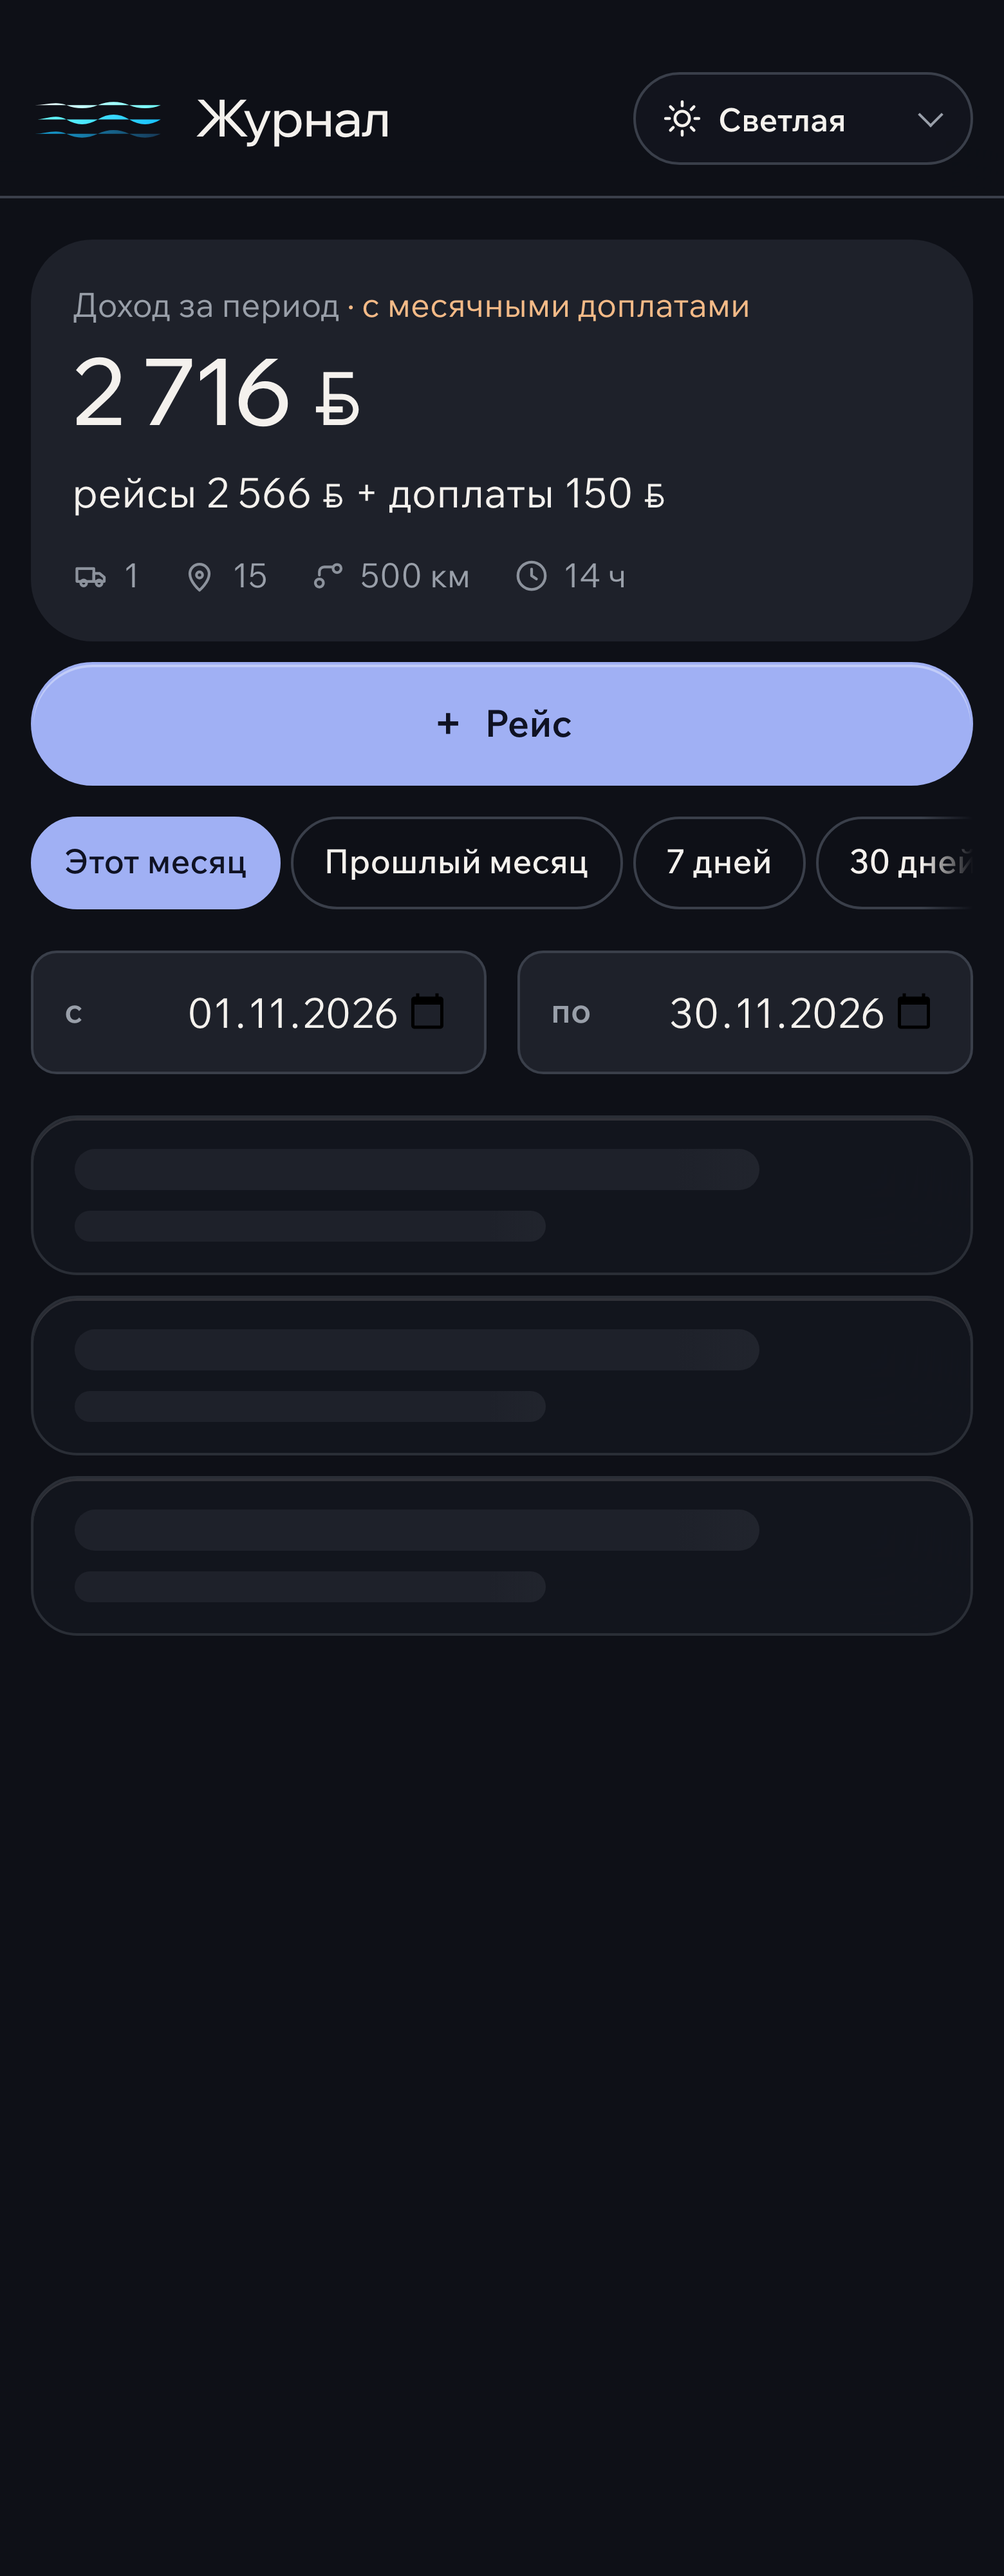
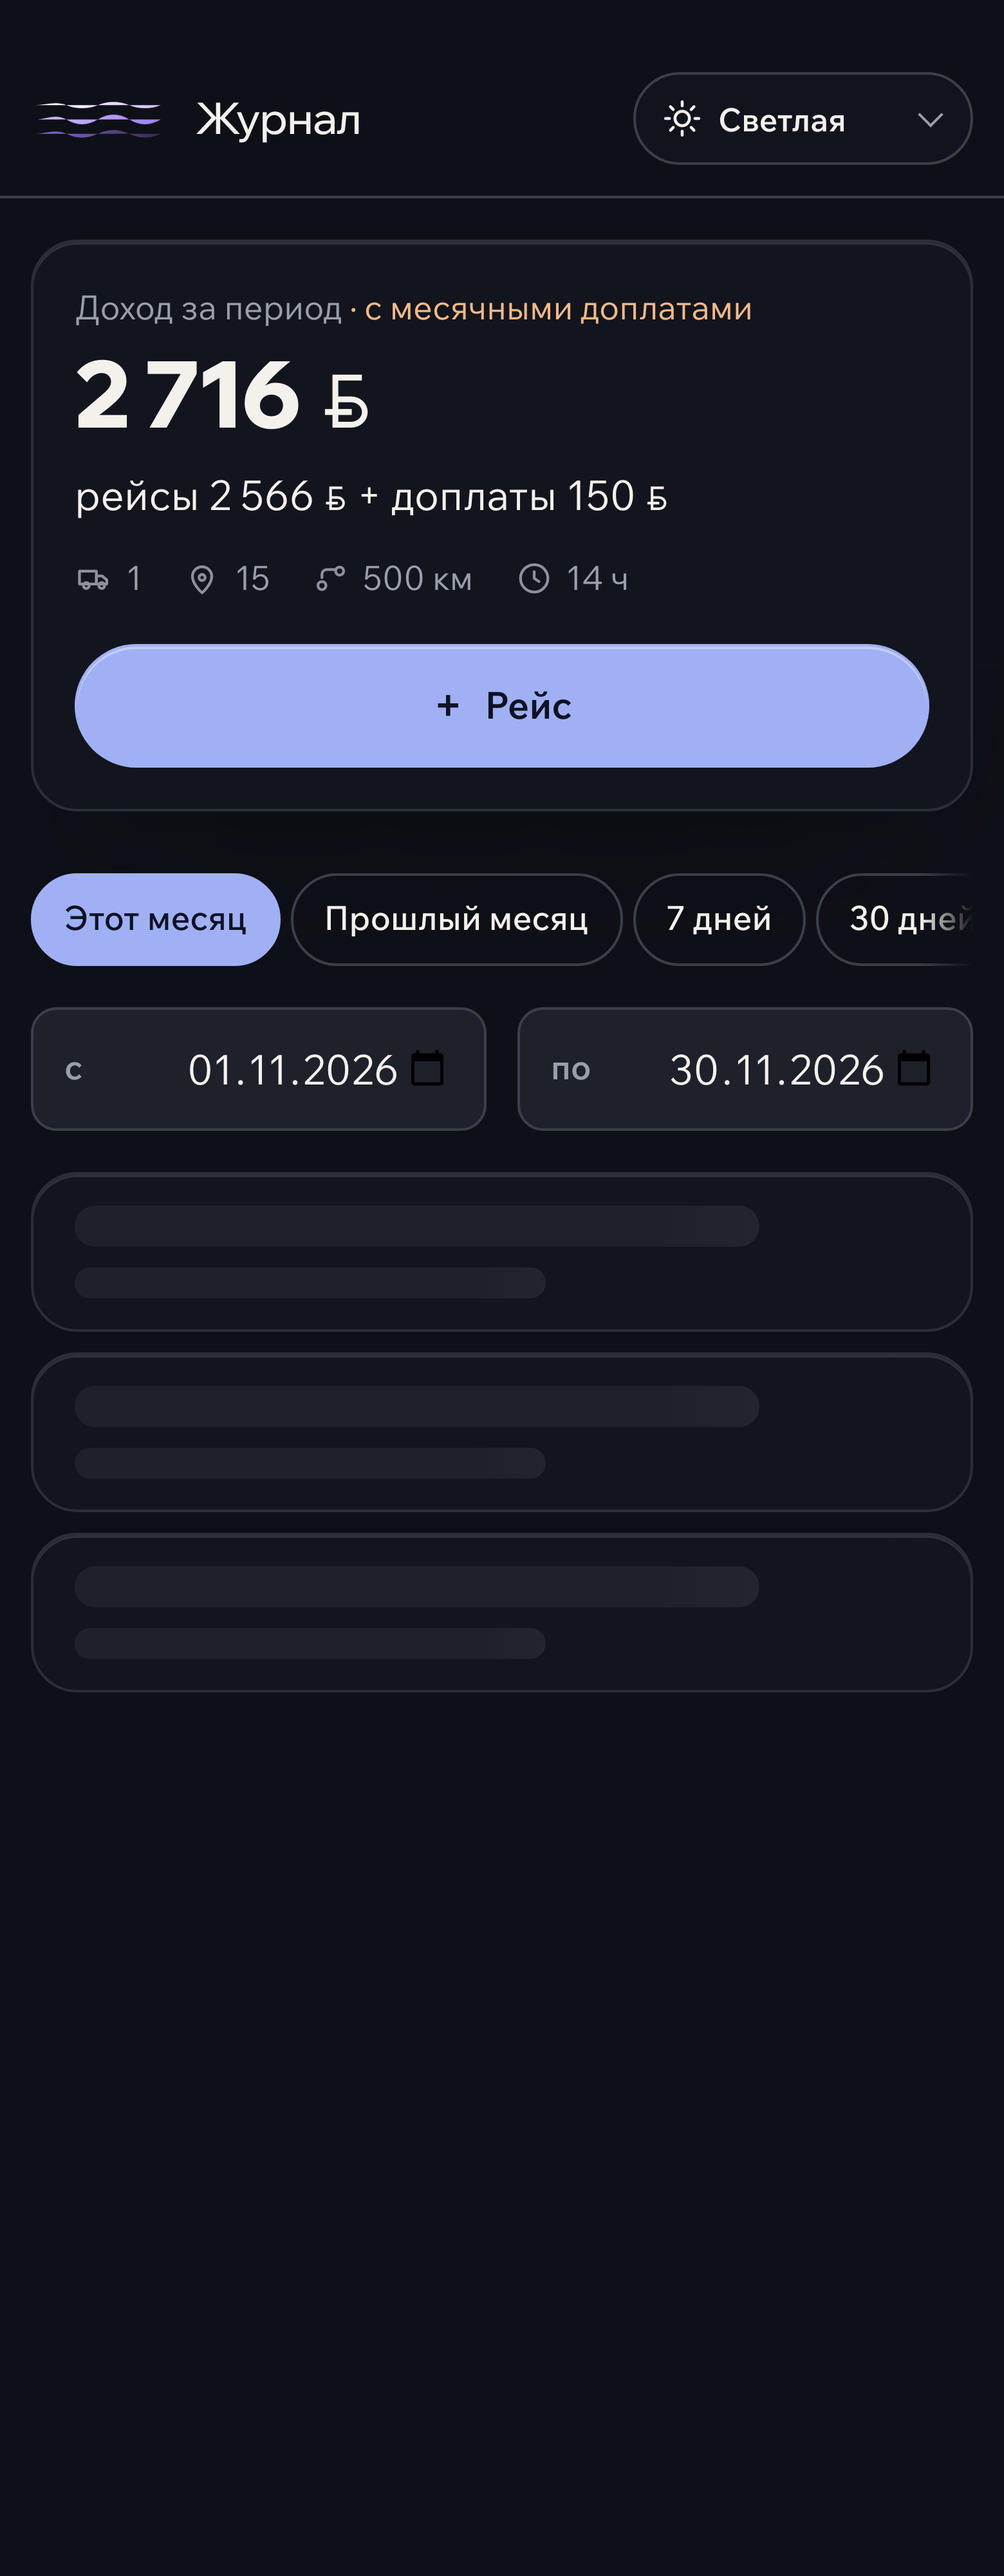
Dusk: белый фон, заголовки меньше, статистика журнала как баланс
- Светлая тема: белый фон вместо бежевого, холодные серые колодцы
- Нижняя навигация: убран маркер у активного пункта, только цвет
- Заголовки страниц в шапке уменьшены на 15% (20 → 17 px)
- Блок статистики журнала с кнопкой «Рейс» — карточка с контуром, как
  баланс за период в истории; внутренняя подложка убрана, чтобы не было
  карточки в карточке
- Главные суммы в блоке журнала и балансе — Display 800 (black)
- DESIGN.md обновлён, скриншоты журнала в обеих темах

diff --git a/src/styles.css b/src/styles.css
@@ -82,15 +82,15 @@
 :root {
   color-scheme: light;
 
-  /* поверхности: костяные колодцы на тумане */
-  --bg: #f1eae3;
-  --surface: #fffdfb;
-  --surface-sunken: #f3efea;
-  --surface-deep: #e9e4dd;
+  /* поверхности: белая бумага, холодные серые колодцы */
+  --bg: #ffffff;
+  --surface: #ffffff;
+  --surface-sunken: #f4f5f7;
+  --surface-deep: #ebedf1;
   --text: #151820;
-  --hint: #565b64;
-  --divider: #e4dfd8;
-  --divider-strong: #d9d5cf;
+  --hint: #5a5f6b;
+  --divider: #e3e5ec;
+  --divider-strong: #d2d5e0;
 
   /* сигналы */
   --accent: #3e4999;
@@ -109,12 +109,12 @@
   --positive: #2f7a5c;
   --danger: #b4523f;
   --focus: rgba(62, 73, 153, 0.35);
-  --header: rgba(241, 234, 227, 0.86);
+  --header: rgba(255, 255, 255, 0.88);
 
   /* стекло: дымчатая поверхность со светлой кромкой */
-  --glass: rgba(255, 253, 251, 0.7);
+  --glass: rgba(255, 255, 255, 0.82);
   --glass-edge: inset 0 1px 0 rgba(255, 255, 255, 0.6);
-  --shadow-card: 0 1px 0 rgba(255, 255, 255, 0.7) inset, 0 24px 48px -32px rgba(21, 24, 32, 0.35);
+  --shadow-card: 0 1px 0 rgba(255, 255, 255, 0.7) inset, 0 1px 2px rgba(21, 24, 32, 0.04), 0 18px 40px -32px rgba(21, 24, 32, 0.3);
 
   --font-display: 'Wix Madefor Display', ui-sans-serif, system-ui, sans-serif;
   --font-body: 'Wix Madefor Text', ui-sans-serif, system-ui, sans-serif;
@@ -561,18 +561,6 @@ html[data-theme='dark'] .brand-mark {
 
 .nav-item.active {
   color: var(--accent-strong);
-}
-
-.nav-item.active::before {
-  content: '';
-  position: absolute;
-  top: -1px;
-  left: 50%;
-  width: 22px;
-  height: 2px;
-  margin-left: -11px;
-  border-radius: 2px;
-  background: var(--accent);
 }
 
 .nav-icon {
@@ -2076,7 +2064,7 @@ h3,
 
 .topbar h1,
 .title-stack h1 {
-  font-size: 20px;
+  font-size: 17px;
   font-weight: 500;
   letter-spacing: var(--tracking-display);
 }
@@ -2150,15 +2138,6 @@ h3,
   border-top: 1px solid var(--divider);
 }
 
-.nav-item.active::before {
-  top: 2px;
-  width: 5px;
-  height: 5px;
-  margin-left: -2.5px;
-  border-radius: 50%;
-  background: var(--accent-2);
-}
-
 .nav-item.active {
   color: var(--accent-strong);
 }
@@ -2213,11 +2192,29 @@ h3,
 .balance-amount {
   font-size: 38px;
   line-height: 1.05;
+  font-weight: 800;
 }
 
 .summary-amount {
   font-size: 36px;
   line-height: 1.05;
+  font-weight: 800;
+}
+
+/* Блок статистики журнала: та же карточка с контуром, что и баланс истории.
+   Внутри — без второй рамки и заливки, чтобы не было карточки в карточке. */
+.journal-panel {
+  display: flex;
+  flex-direction: column;
+  gap: var(--s3);
+  padding: var(--s4);
+  margin-bottom: var(--s3);
+}
+
+.journal-panel .summary {
+  padding: 0;
+  background: transparent;
+  border-radius: 0;
 }
 
 /* Абрикос — «ждёт решения» и доплаты, перивинкль — «готово». */

diff --git a/src/views/journal.js b/src/views/journal.js
@@ -373,7 +373,8 @@ export function journalView(root, ctx) {
   }
 
   root.append(
-    el('div', { class: 'journal-top' }, [summary, addButton]),
+    // Статистика и кнопка записи — в одном блоке с контуром, как баланс истории.
+    el('div', { class: 'card balance journal-panel' }, [summary, addButton]),
     el('div', { class: 'filters' }, [chips, rangeRow]),
     list,
   );
